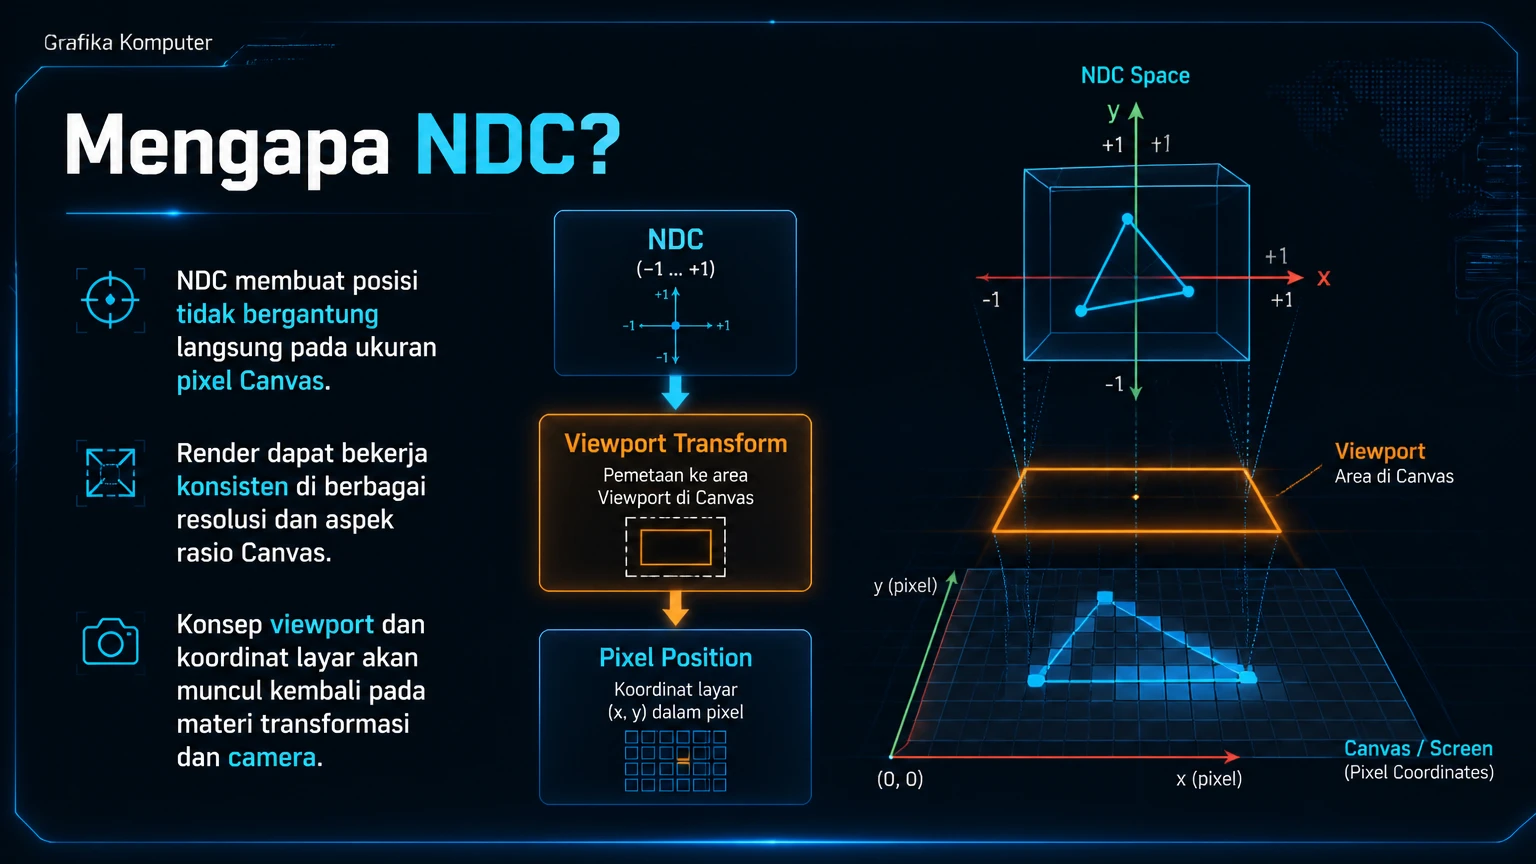
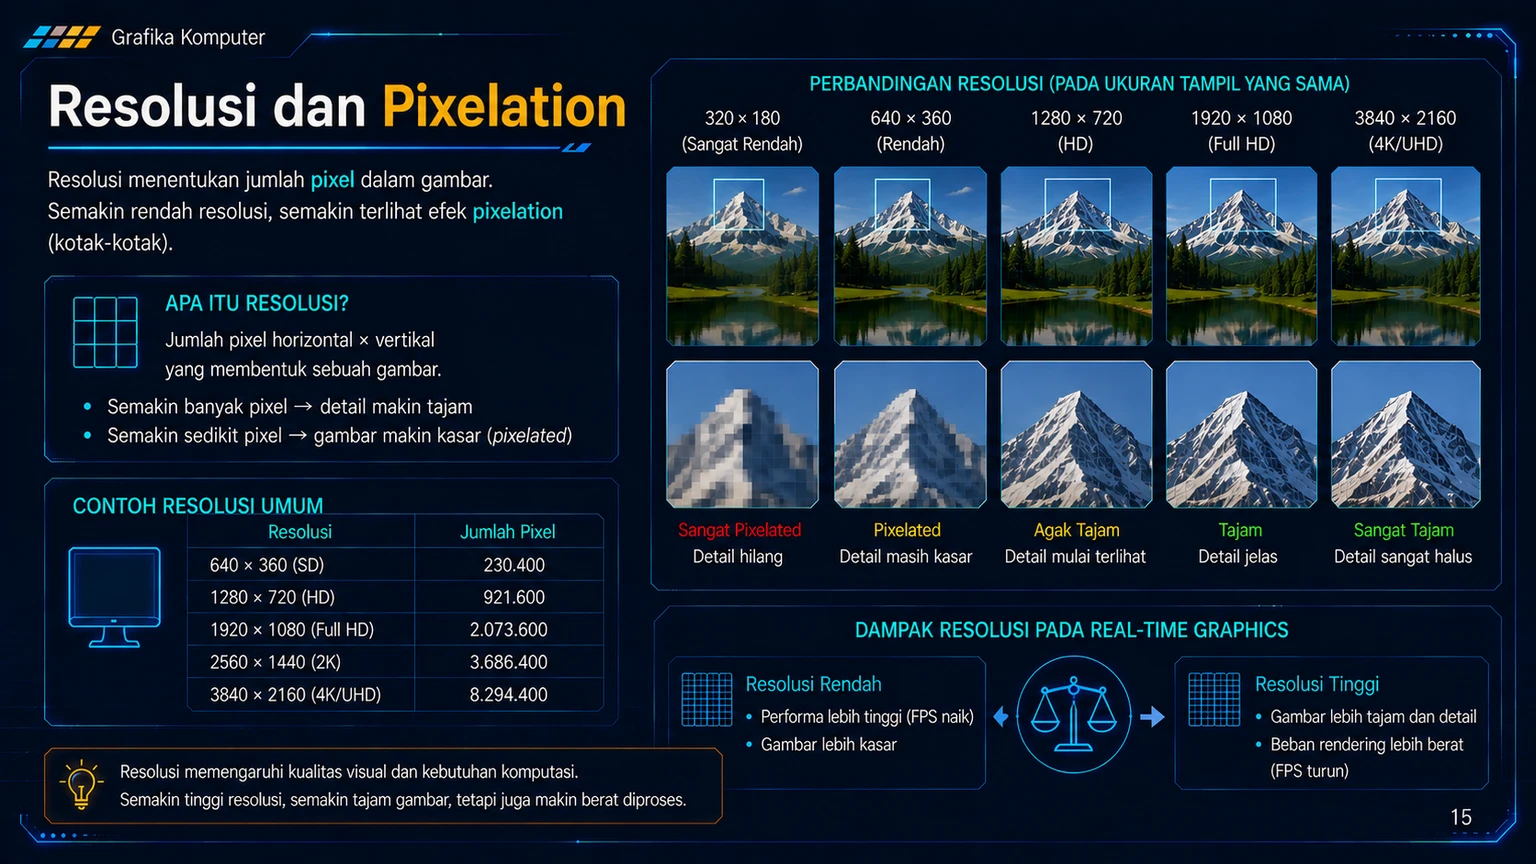
Preserve practical output paths in Pages build

diff --git a/src/main.tsx b/src/main.tsx
@@ -57,11 +57,17 @@ const practicals = import.meta.glob("../praktikum/*.md", {
   import: "default",
   eager: true,
 }) as Record<string, string>;
-const outputFiles = import.meta.glob("../praktikum/output/**/*", {
+const outputSourceFiles = import.meta.glob("../praktikum/output/**/*", {
   query: "?url",
   import: "default",
   eager: true,
 }) as Record<string, string>;
+const outputFiles = Object.fromEntries(
+  Object.keys(outputSourceFiles).map((path) => [
+    path,
+    `./praktikum/output/${path.replace(/^\.\.\/praktikum\/output\//, "")}`,
+  ]),
+) as Record<string, string>;
 const outputDocs = import.meta.glob("../praktikum/output/**/*.md", {
   query: "?raw",
   import: "default",

diff --git a/vite.config.ts b/vite.config.ts
@@ -1,4 +1,20 @@
+import fs from 'node:fs'
+import path from 'node:path'
 import { defineConfig } from 'vite'
 import react from '@vitejs/plugin-react'
 
-export default defineConfig({ base: './', plugins: [react()] })
+const copyPracticalOutput = () => ({
+  name: 'copy-practical-output',
+  closeBundle() {
+    fs.cpSync(
+      path.resolve('praktikum/output'),
+      path.resolve('dist/praktikum/output'),
+      { recursive: true },
+    )
+  },
+})
+
+export default defineConfig({
+  base: './',
+  plugins: [react(), copyPracticalOutput()],
+})
